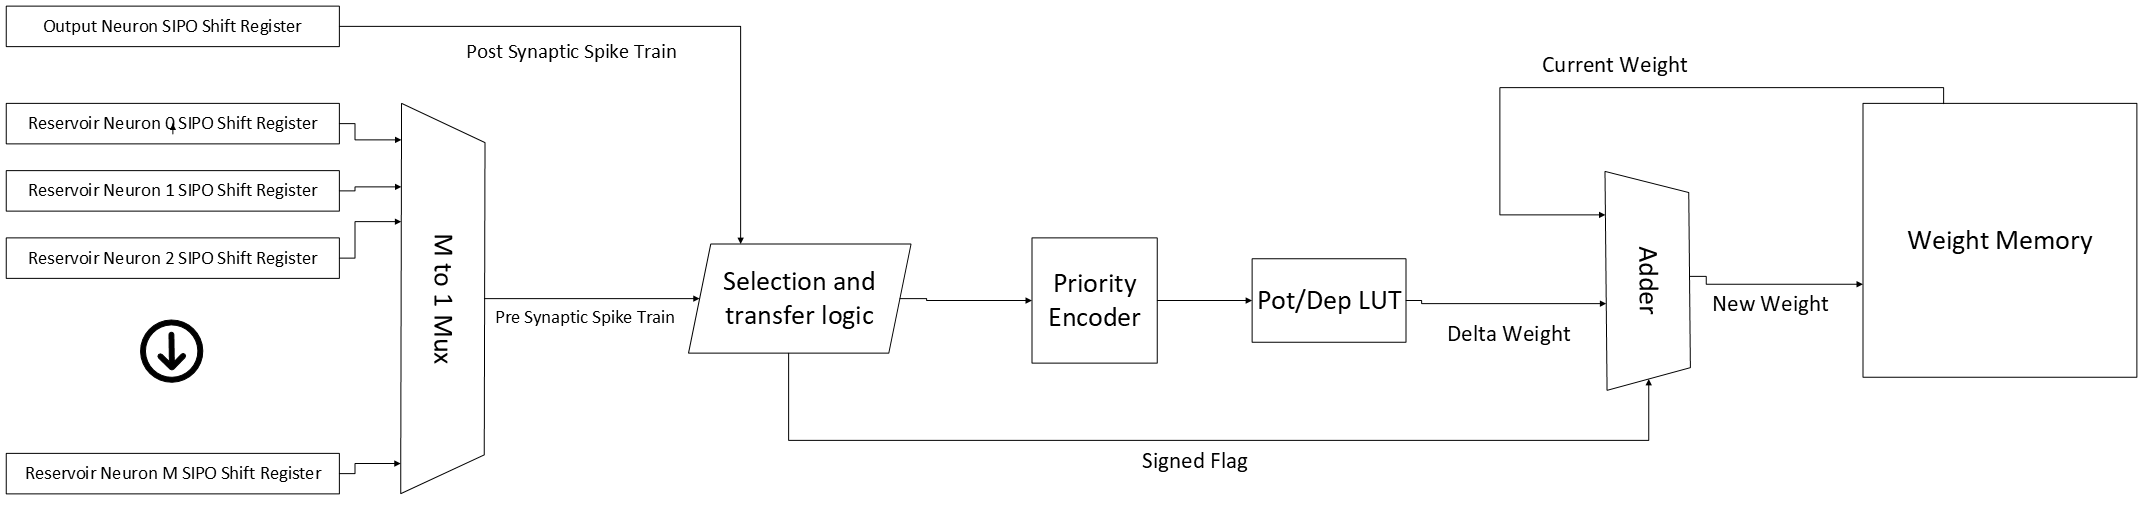
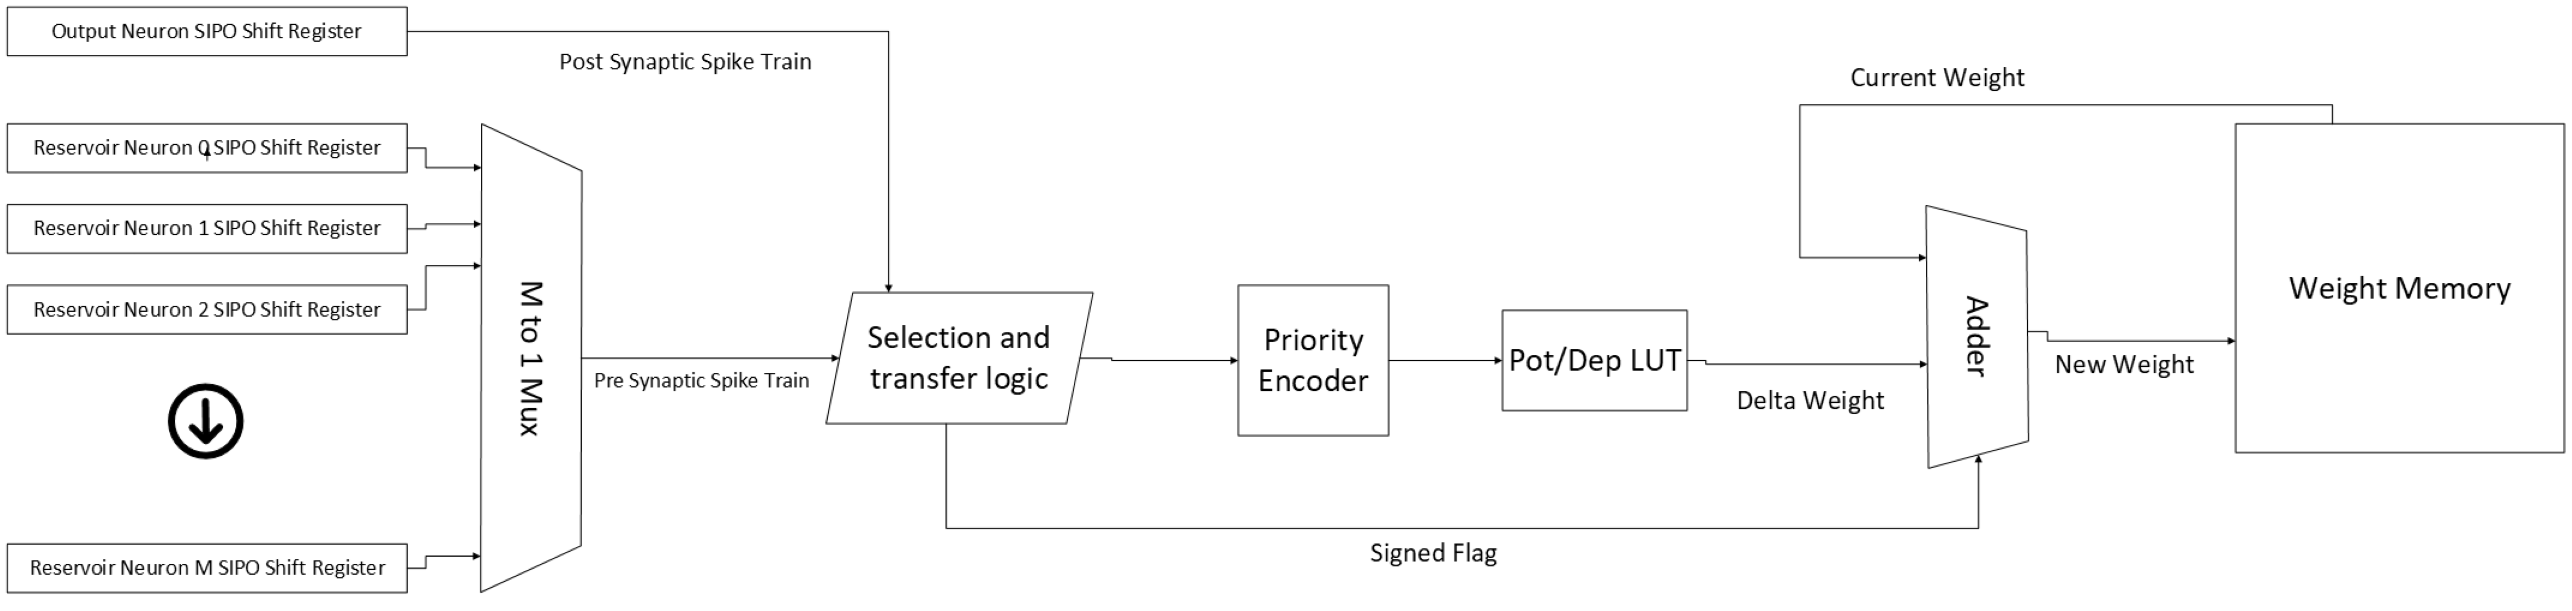
Resized two diagrams, included linkedin link

diff --git a/_posts/2025-06-25-blog-post-1.md b/_posts/2025-06-25-blog-post-1.md
@@ -6,9 +6,10 @@ tags:
   - FPGAS
   - Spiking Neural Networks
   - STDP
+  - RTL Design
 ---
 
-Written by Aaryan Dhawan, in collaboration with Muhammad Farhan Azmine
+Written by Aaryan Dhawan, in collaboration with [Muhammad Farhan Azmine](https://muhammadfarhan720.github.io/)
 
 What is STDP?
 ===============
